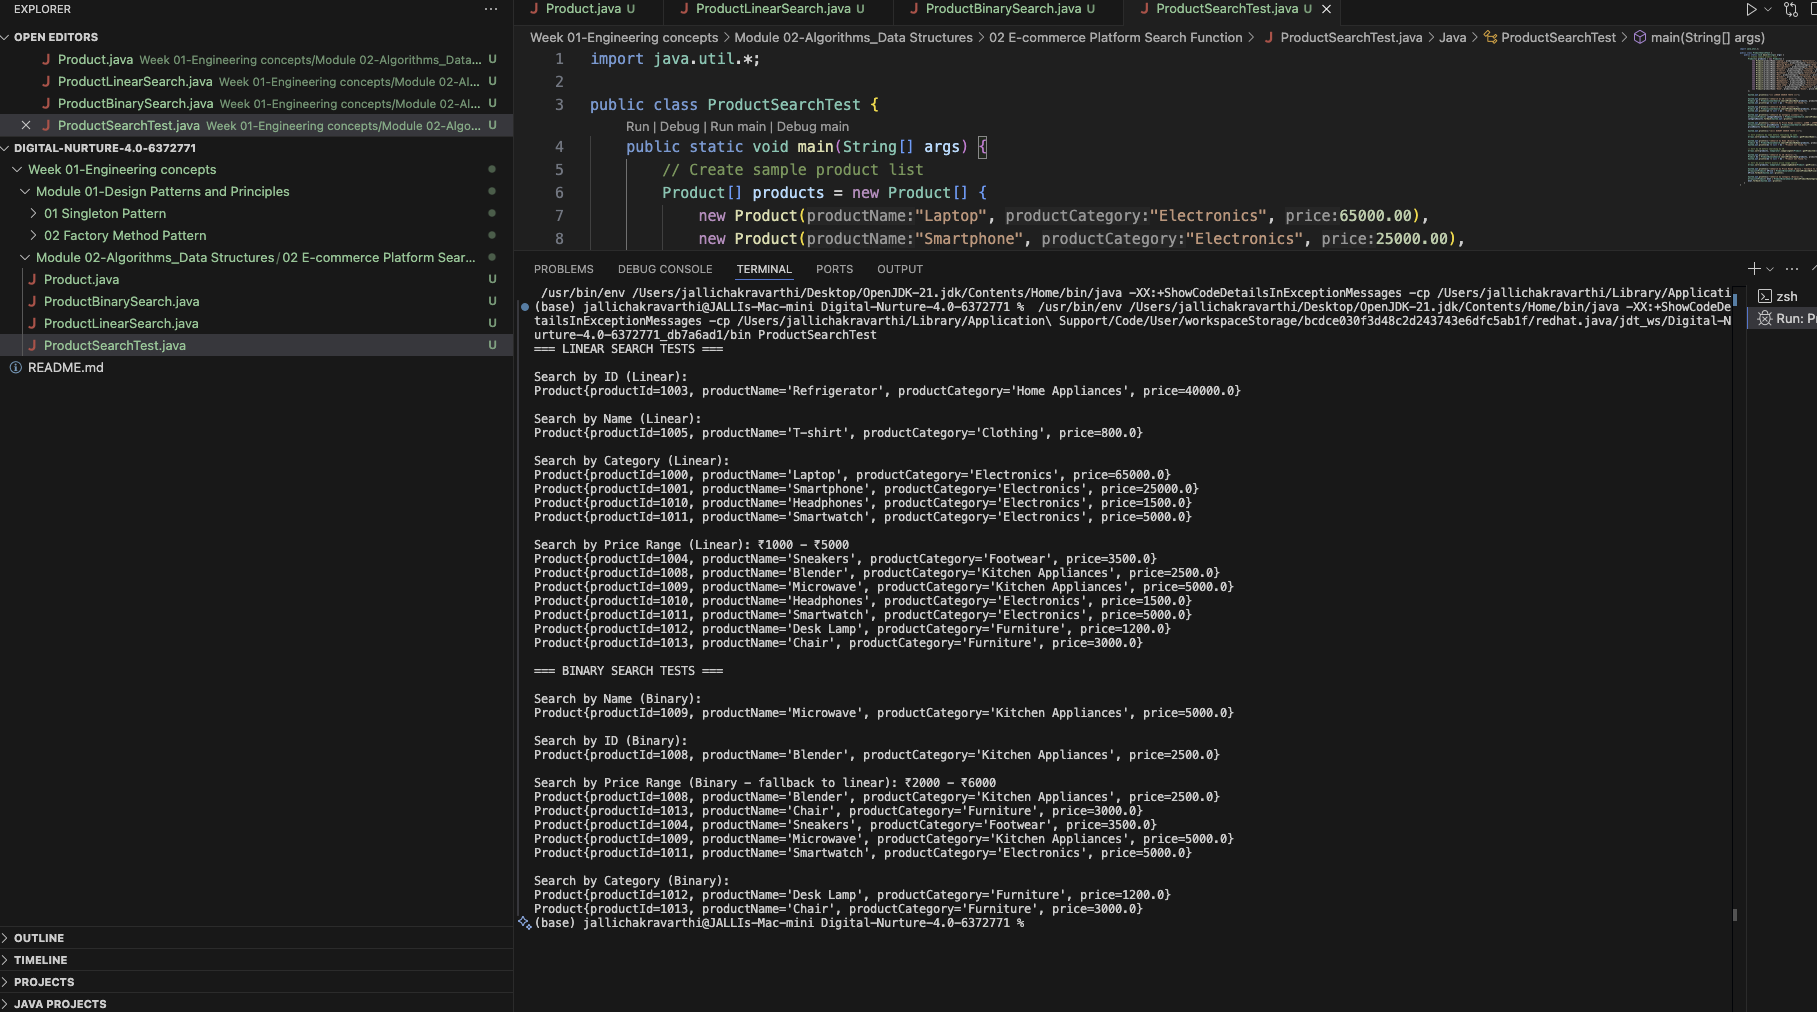
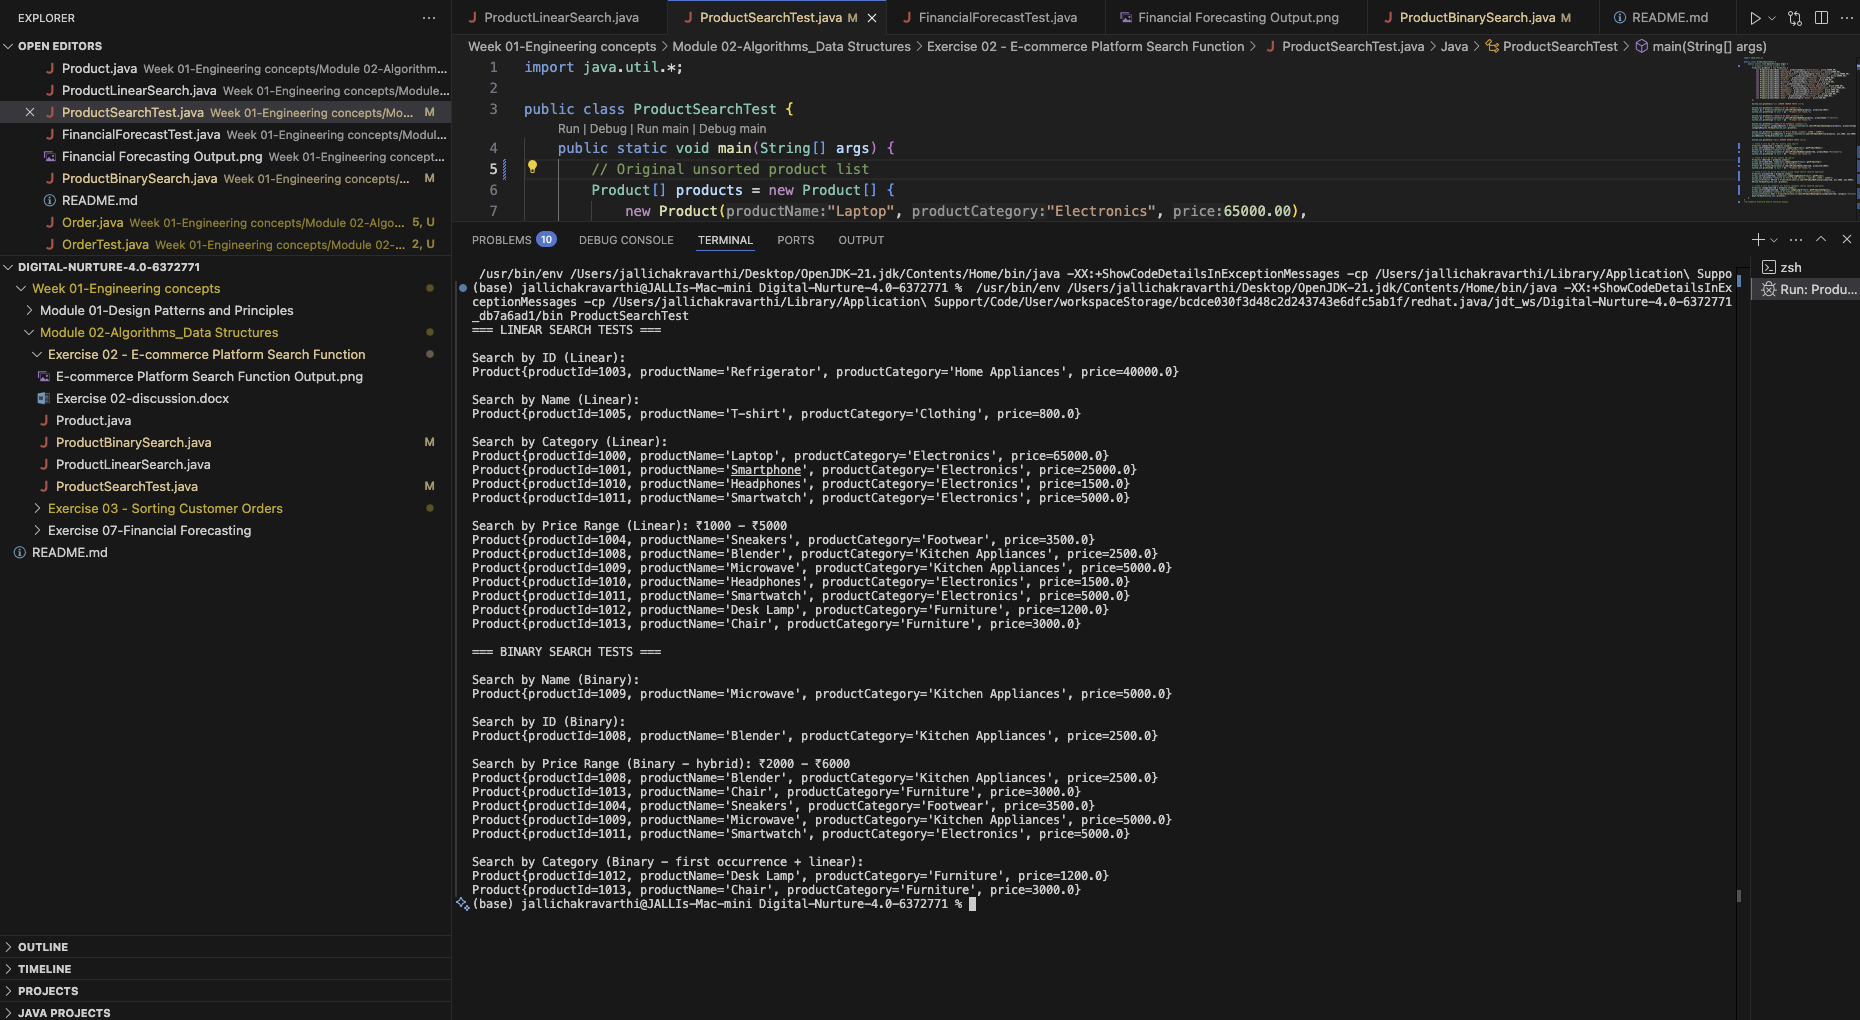
Adding module 2-exercise 3 to week 1 folder

Changed region(s): [[0.0, 0.0, 1.0, 0.919], [0.0, 0.919, 0.0616, 1.0]]

diff --git a/Week 01-Engineering concepts/Module 02-Algorithms_Data Structures/Exercise 03 - Sorting Customer Orders/OrderTest.java b/Week 01-Engineering concepts/Module 02-Algorithms_Data Structures/Exercise 03 - Sorting Customer Orders/OrderTest.java
@@ -1,0 +1,109 @@
+import java.util.ArrayList;
+
+public class OrderTest {
+    public static void main(String[] args) {
+        Order[] orders = {
+                new Order("O001", "Alice", new ArrayList<OrderProduct>() {
+                    {
+                        add(new OrderProduct("P001", "Laptop", 55000.0));
+                        add(new OrderProduct("P002", "Mouse", 750.0));
+                    }
+                }),
+
+                new Order("O002", "Bob", new ArrayList<OrderProduct>() {
+                    {
+                        add(new OrderProduct("P003", "Smartphone", 25000.0));
+                    }
+                }),
+
+                new Order("O003", "Charlie", new ArrayList<OrderProduct>() {
+                    {
+                        add(new OrderProduct("P004", "Headphones", 1500.0));
+                        add(new OrderProduct("P005", "Power Bank", 1200.0));
+                    }
+                }),
+
+                new Order("O004", "Diana", new ArrayList<OrderProduct>() {
+                    {
+                        add(new OrderProduct("P006", "Monitor", 10000.0));
+                        add(new OrderProduct("P007", "Keyboard", 2000.0));
+                        add(new OrderProduct("P008", "Webcam", 1800.0));
+                    }
+                }),
+
+                new Order("O005", "Ethan", new ArrayList<OrderProduct>() {
+                    {
+                        add(new OrderProduct("P009", "Smartwatch", 4500.0));
+                        add(new OrderProduct("P010", "Wireless Charger", 1500.0));
+                    }
+                })
+        };
+
+        Order[] bubbleOrders = orders.clone();
+
+        System.out.println("\n=== Order Sorting Test ===\n");
+
+        System.out.println("Orders before sorting:");
+        for (Order order : orders) {
+            System.out.print(order + " ");
+        }
+        System.out.println();
+
+        bubbleSortOrders(bubbleOrders);
+
+        System.out.println("\nOrders sorted by total price using Bubble Sort:");
+        for (Order order : bubbleOrders) {
+            System.out.print(order + " ");
+        }
+        System.out.println();
+
+        Order[] quickOrders = orders.clone();
+        quickSortOrders(quickOrders, 0, quickOrders.length - 1);
+
+        System.out.println("\nOrders sorted by total price using Quick Sort:");
+        for (Order order : quickOrders) {
+            System.out.print(order + " ");
+        }
+
+    }
+
+    public static void bubbleSortOrders(Order[] orders) {
+        boolean swapped;
+        for (int i = 0; i < orders.length - 1; i++) {
+            swapped = false;
+            for (int j = i; j < orders.length - i - 1; j++) {
+                if (orders[j].getTotalPrice() > orders[j + 1].getTotalPrice()) {
+                    swap(orders, j, j + 1);
+                    swapped = true;
+                }
+            }
+        }
+    }
+
+    public static void swap(Order[] orders, int i, int j) {
+        Order temp = orders[i];
+        orders[i] = orders[j];
+        orders[j] = temp;
+    }
+
+    public static void quickSortOrders(Order[] orders, int low, int high) {
+        if (low < high) {
+            int pi = partition(orders, low, high);
+            quickSortOrders(orders, low, pi - 1);
+            quickSortOrders(orders, pi + 1, high);
+        }
+    }
+
+    public static int partition(Order[] orders, int low, int high) {
+        double pivot = orders[high].getTotalPrice();
+        int i = (low - 1);
+        for (int j = low; j < high; j++) {
+            if (orders[j].getTotalPrice() <= pivot) {
+                i++;
+                swap(orders, i, j);
+            }
+        }
+        swap(orders, i + 1, high);
+        return i + 1;
+    }
+}

diff --git a/Week 01-Engineering concepts/Module 02-Algorithms_Data Structures/Exercise 02 - E-commerce Platform Search Function/ProductSearchTest.java b/Week 01-Engineering concepts/Module 02-Algorithms_Data Structures/Exercise 02 - E-commerce Platform Search Function/ProductSearchTest.java
@@ -2,7 +2,7 @@ import java.util.*;
 
 public class ProductSearchTest {
     public static void main(String[] args) {
-        // Create sample product list
+        // Original unsorted product list
         Product[] products = new Product[] {
             new Product("Laptop", "Electronics", 65000.00),
             new Product("Smartphone", "Electronics", 25000.00),
@@ -41,29 +41,32 @@ public class ProductSearchTest {
 
         System.out.println("\n=== BINARY SEARCH TESTS ===");
 
-        // Sort products by name before searching by name
-        Arrays.sort(products, Comparator.comparing(Product::getProductName));
-
+        // Clone & sort by name for binary name search
+        Product[] nameSorted = products.clone();
+        Arrays.sort(nameSorted, Comparator.comparing(Product::getProductName));
         System.out.println("\nSearch by Name (Binary):");
-        Product b1 = ProductBinarySearch.searchProductByName(products, "Microwave");
+        Product b1 = ProductBinarySearch.searchProductByName(nameSorted, "Microwave");
         System.out.println(b1 != null ? b1 : "Product not found.");
 
-        // Sort by ID before searching by ID
-        Arrays.sort(products, Comparator.comparingInt(Product::getProductId));
-
+        // Clone & sort by ID for binary ID search
+        Product[] idSorted = products.clone();
+        Arrays.sort(idSorted, Comparator.comparingInt(Product::getProductId));
         System.out.println("\nSearch by ID (Binary):");
-        Product b2 = ProductBinarySearch.searchProductById(products, 1008);
+        Product b2 = ProductBinarySearch.searchProductById(idSorted, 1008);
         System.out.println(b2 != null ? b2 : "Product not found.");
 
-        // Sort by price before binary price range search
-        Arrays.sort(products, Comparator.comparingDouble(Product::getPrice));
-
-        System.out.println("\nSearch by Price Range (Binary - fallback to linear): ₹2000 - ₹6000");
-        ArrayList<Product> bPrice = ProductBinarySearch.searchProductByPrice(products, 2000, 6000);
+        // Clone & sort by price for binary price range search (hybrid approach)
+        Product[] priceSorted = products.clone();
+        Arrays.sort(priceSorted, Comparator.comparingDouble(Product::getPrice));
+        System.out.println("\nSearch by Price Range (Binary - hybrid): ₹2000 - ₹6000");
+        ArrayList<Product> bPrice = ProductBinarySearch.searchProductByPrice(priceSorted, 2000, 6000);
         bPrice.forEach(System.out::println);
 
-        System.out.println("\nSearch by Category (Binary):");
-        ArrayList<Product> bCat = ProductBinarySearch.searchProductByCategory(products, "Furniture");
+        // Clone & sort by category for binary category search (hybrid approach)
+        Product[] categorySorted = products.clone();
+        Arrays.sort(categorySorted, Comparator.comparing(Product::getProductCategory));
+        System.out.println("\nSearch by Category (Binary - first occurrence + linear):");
+        ArrayList<Product> bCat = ProductBinarySearch.searchProductByCategory(categorySorted, "Furniture");
         bCat.forEach(System.out::println);
     }
 }

diff --git a/Week 01-Engineering concepts/Module 02-Algorithms_Data Structures/Exercise 02 - E-commerce Platform Search Function/ProductBinarySearch.java b/Week 01-Engineering concepts/Module 02-Algorithms_Data Structures/Exercise 02 - E-commerce Platform Search Function/ProductBinarySearch.java
@@ -39,15 +39,56 @@ public class ProductBinarySearch {
         return null;
     }
 
-    public static ArrayList<Product> searchProductByCategory(Product[] products, String productCategory) {
-        ArrayList<Product> list = new ArrayList<>();
-        for (Product product : products) {
-            if (product.getProductCategory().equalsIgnoreCase(productCategory)) {
-                list.add(product);
+    /**
+     * This method uses binary search to find the first occurrence of a product
+     * in the specified category, and then linearly traverses from that point to
+     * collect all products in that category.
+     * @param products
+     * @param category
+     * @return An ArrayList of Product objects that match the specified category.
+     */
+    public static ArrayList<Product> searchProductByCategory(Product[] products, String category) {
+        ArrayList<Product> result = new ArrayList<>();
+        int start = findFirstOccurrence(products, category);
+
+        if (start == -1) return result;
+
+        for (int i = start; i < products.length; i++) {
+            if (products[i].getProductCategory().equalsIgnoreCase(category)) {
+                result.add(products[i]);
+            } else {
+                break;
             }
         }
-        return list;
+
+        return result;
     }
+
+    private static int findFirstOccurrence(Product[] products, String category) {
+        int left = 0;
+        int right = products.length - 1;
+        int result = -1;
+
+        while (left <= right) {
+            int mid = left + (right - left) / 2;
+            String midCategory = products[mid].getProductCategory();
+
+            int cmp = midCategory.compareToIgnoreCase(category);
+
+            if (cmp == 0) {
+                result = mid;
+                right = mid - 1;
+            } else if (cmp < 0) {
+                left = mid + 1;
+            } else {
+                right = mid - 1;
+            }
+        }
+
+        return result;
+    }
+
+
 
     /**
      * This method uses a hybrid approach combining binary search and linear traversal to efficiently
@@ -55,11 +96,17 @@ public class ProductBinarySearch {
      *
      * Binary search is used to locate the lower (ceil) and upper (floor) bounds of the price range,
      * thereby reducing the portion of the array that needs to be linearly scanned.
-     *
+     * 
      * This approach achieves O(log n + k) time complexity, where:
      *   - n is the number of products,
      *   - k is the number of products within the specified price range.
      *
+     * This method takes
+     * @param products Array of Product objects, sorted by price.
+     * @param min Minimum price of the range.
+     * @param max Maximum price of the range.
+     * @return An ArrayList of Product objects that fall within the specified price range.
+     * 
      * In the best case, where few products fall within the range, performance is near logarithmic.
      * In the worst case, when most or all products fall within the range, the time complexity becomes O(n).
      *

diff --git a/Week 01-Engineering concepts/Module 02-Algorithms_Data Structures/Exercise 03 - Sorting Customer Orders/Order.java b/Week 01-Engineering concepts/Module 02-Algorithms_Data Structures/Exercise 03 - Sorting Customer Orders/Order.java
@@ -1,0 +1,50 @@
+
+import java.util.ArrayList;
+
+public class Order {
+    private String orderId;
+    private String customerName;
+    private ArrayList<OrderProduct> products;
+    private double totalPrice;
+
+    public Order(String orderId, String customerName, ArrayList<OrderProduct> products) {
+        this.orderId = orderId;
+        this.customerName = customerName;
+        this.products = products;
+        this.totalPrice = calculateTotalPrice();
+    }
+
+    public String getOrderId() {
+        return orderId;
+    }
+
+    public String getCustomerName() {
+        return customerName;
+    }
+
+    public double getTotalPrice() {
+        return totalPrice;
+    }
+
+    @Override
+    public String toString() {
+        return "Order{" +
+                "orderId='" + orderId + '\'' +
+                ", customerName='" + customerName + '\'' +
+                ", totalPrice=" + totalPrice +
+                '}';
+    }
+
+    private double calculateTotalPrice() {
+        double result = 0.0;
+        for (OrderProduct product : products) {
+            result += product.getPrice();
+        }
+        return result;
+    }
+
+    private void addProduct(OrderProduct product) {
+        products.add(product);
+        totalPrice += product.getPrice();
+    }
+}

diff --git a/Week 01-Engineering concepts/Module 02-Algorithms_Data Structures/Exercise 03 - Sorting Customer Orders/OrderProduct.java b/Week 01-Engineering concepts/Module 02-Algorithms_Data Structures/Exercise 03 - Sorting Customer Orders/OrderProduct.java
@@ -1,0 +1,32 @@
+public class OrderProduct {
+    private String productId;
+    private String productName;
+    private double price;
+
+    public OrderProduct(String productId, String productName, double price) {
+        this.productId = productId;
+        this.productName = productName;
+        this.price = price;
+    }
+
+    public String getProductId() {
+        return productId;
+    }
+
+    public String getProductName() {
+        return productName;
+    }
+
+    public double getPrice() {
+        return price;
+    }
+
+    @Override
+    public String toString() {
+        return "Product{" +
+                "productId='" + productId + '\'' +
+                ", productName='" + productName + '\'' +
+                ", price=" + price +
+                '}';
+    }
+}

diff --git a/README.md b/README.md
@@ -38,7 +38,7 @@ Key Files: `Document.java`, `DocumentFactory.java`, `WordDocumentFactory.java`, 
 
 ---
 
-## Module 2: Algorithmic Thinking & Java Implementation
+### Module 2: Algorithmic Thinking & Java Implementation
 
 ---
 
@@ -57,7 +57,22 @@ Discussion: `Exercise 02-discussion.docx`
 
 ---
 
-### 4. Financial Forecasting
+### 4. Sorting Customer Orders
+- **Exercise**: Sort orders by total price using sorting algorithms.
+- **Objective**: Prioritize high-value orders by applying sorting techniques.
+- **Highlights**:
+  - `Order` class holds customer details and product list.
+  - `OrderProduct` class encapsulates product details.
+  - Implemented both **Bubble Sort** and **Quick Sort** based on `totalPrice`.
+  - Demonstrates efficiency and time complexity difference between the two algorithms.
+
+Folder: `Week1/Module2/Exercise3-SortingCustomerOrders`  
+Key Files: `Order.java`, `OrderProduct.java`, `OrderTest.java`  
+Discussion: `Exercise 03-discussion.docx`
+
+---
+
+### 5. Financial Forecasting
 - **Exercise**: Predict future financial value using recursion.
 - **Objective**: Forecast future value based on initial value and growth rate.
 - **Highlights**:
@@ -78,4 +93,4 @@ Discussion: `Exercise 07-discussion.docx`
 
 ---
 
- *More modules and hands-on exercises will be added as the program progresses.*
+*More modules and hands-on exercises will be added as the program progresses.*
